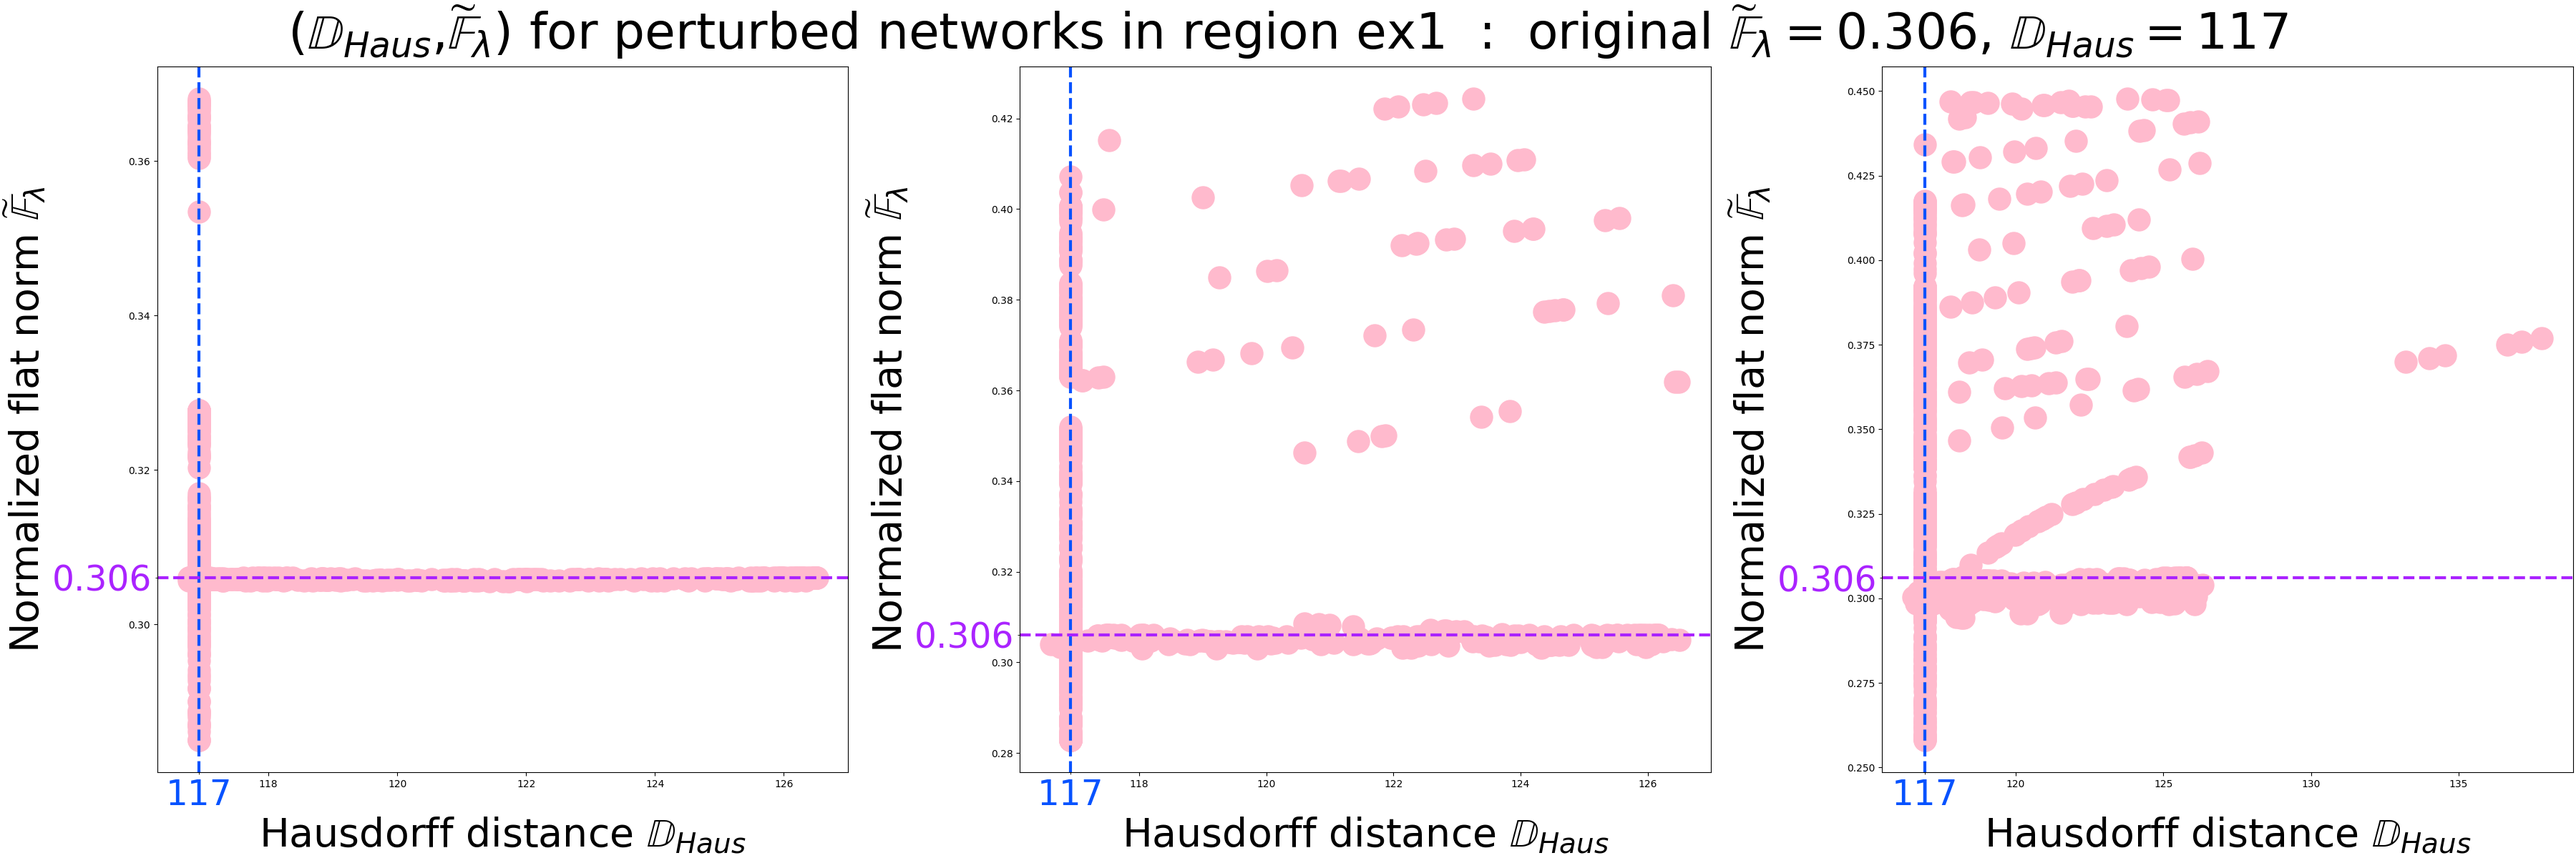
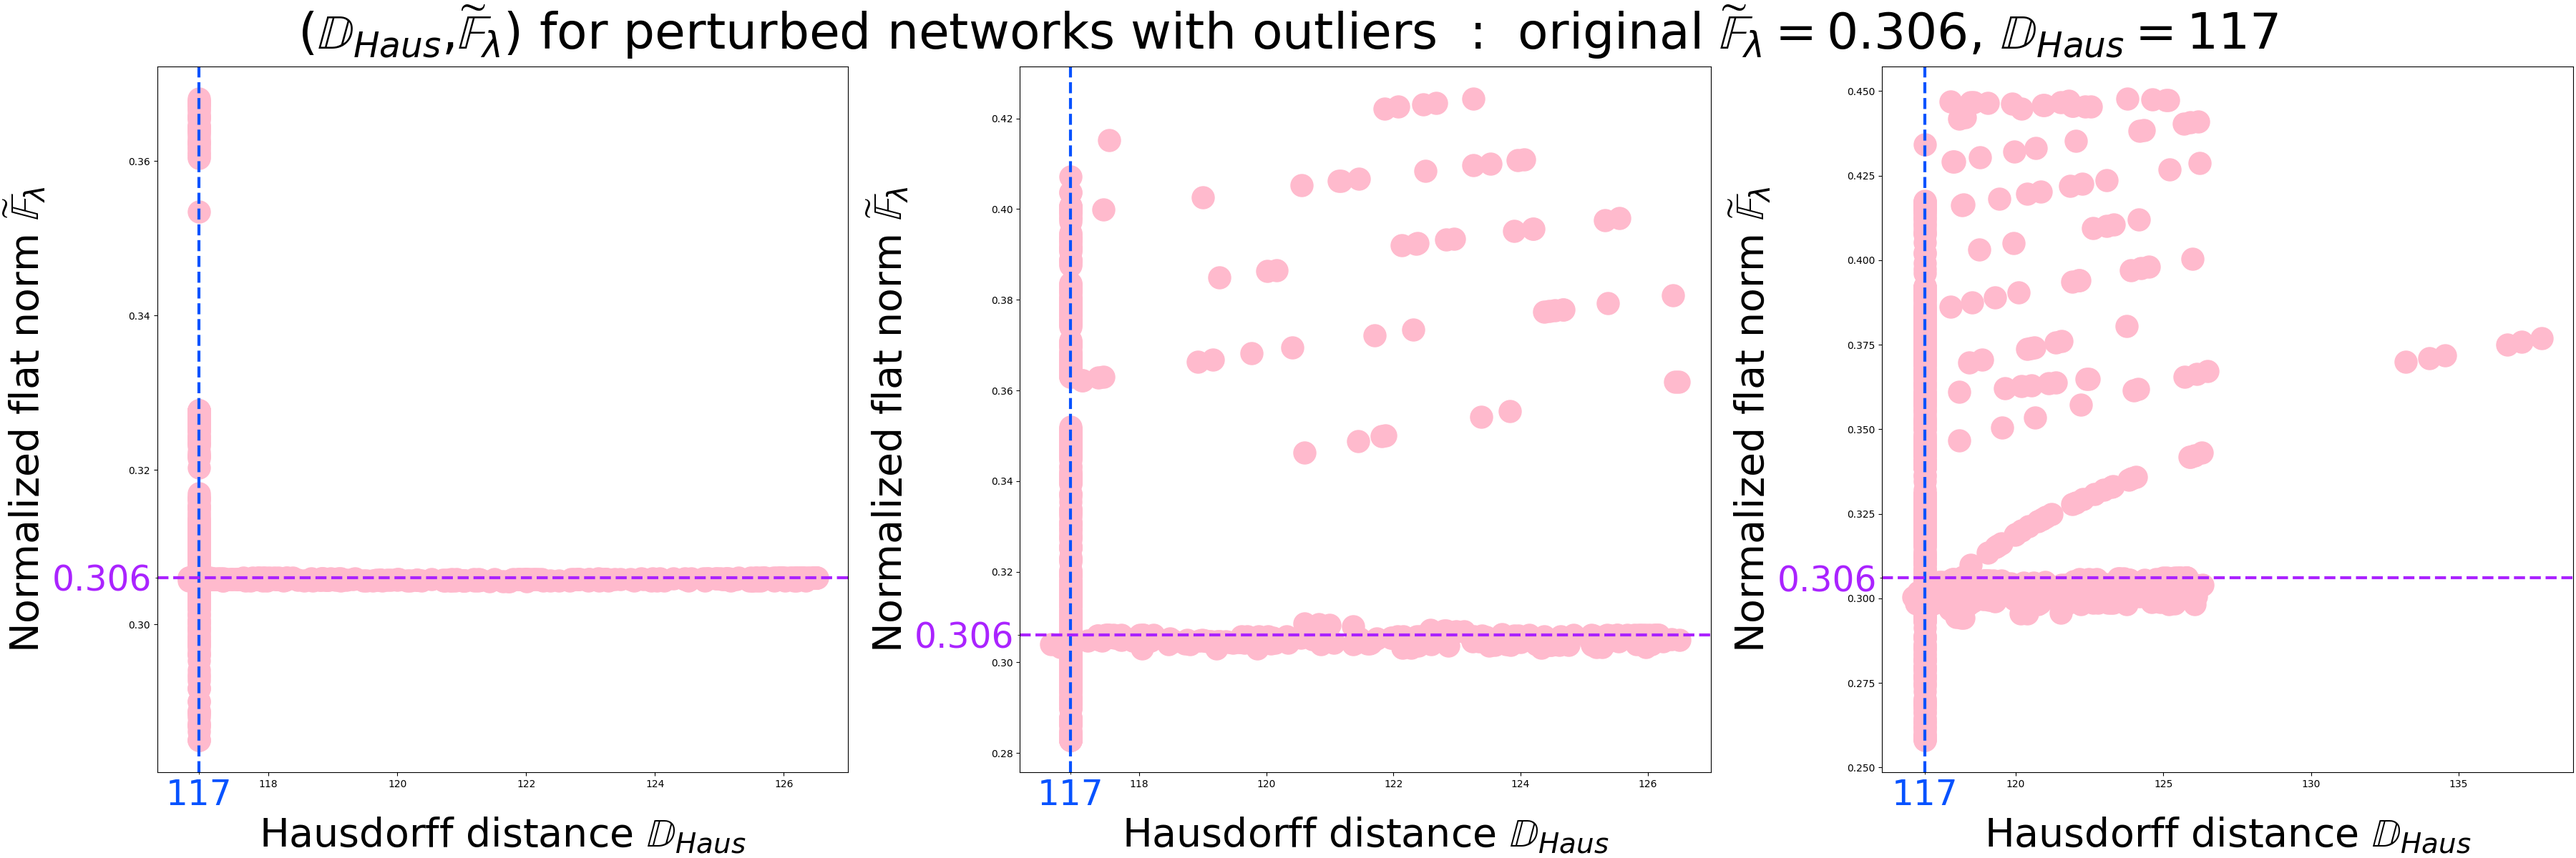
updated outlier figs

Changed region(s): [[0.0933, 0.0, 0.56, 0.0617], [0.5911, 0.0, 0.9022, 0.0617]]

diff --git a/area-stats-4.py b/area-stats-4.py
@@ -67,7 +67,8 @@ for i,index in enumerate(ind_label):
             scatter_size=500,
         )
     
-    fnm_prefix = f"(${HAUS}$,${FNN}$) for perturbed networks in region {ind_label[index]}"
+    # fnm_prefix = f"(${HAUS}$,${FNN}$) for perturbed networks in region {ind_label[index]}"
+    fnm_prefix = f"(${HAUS}$,${FNN}$) for perturbed networks with outliers"
     region_original = f"original ${FNN}={fni:0.3g}$, ${HAUS}={hdi:0.3g}$"
     fig.suptitle(f"{fnm_prefix}  :  {region_original}", fontsize=50)
 
